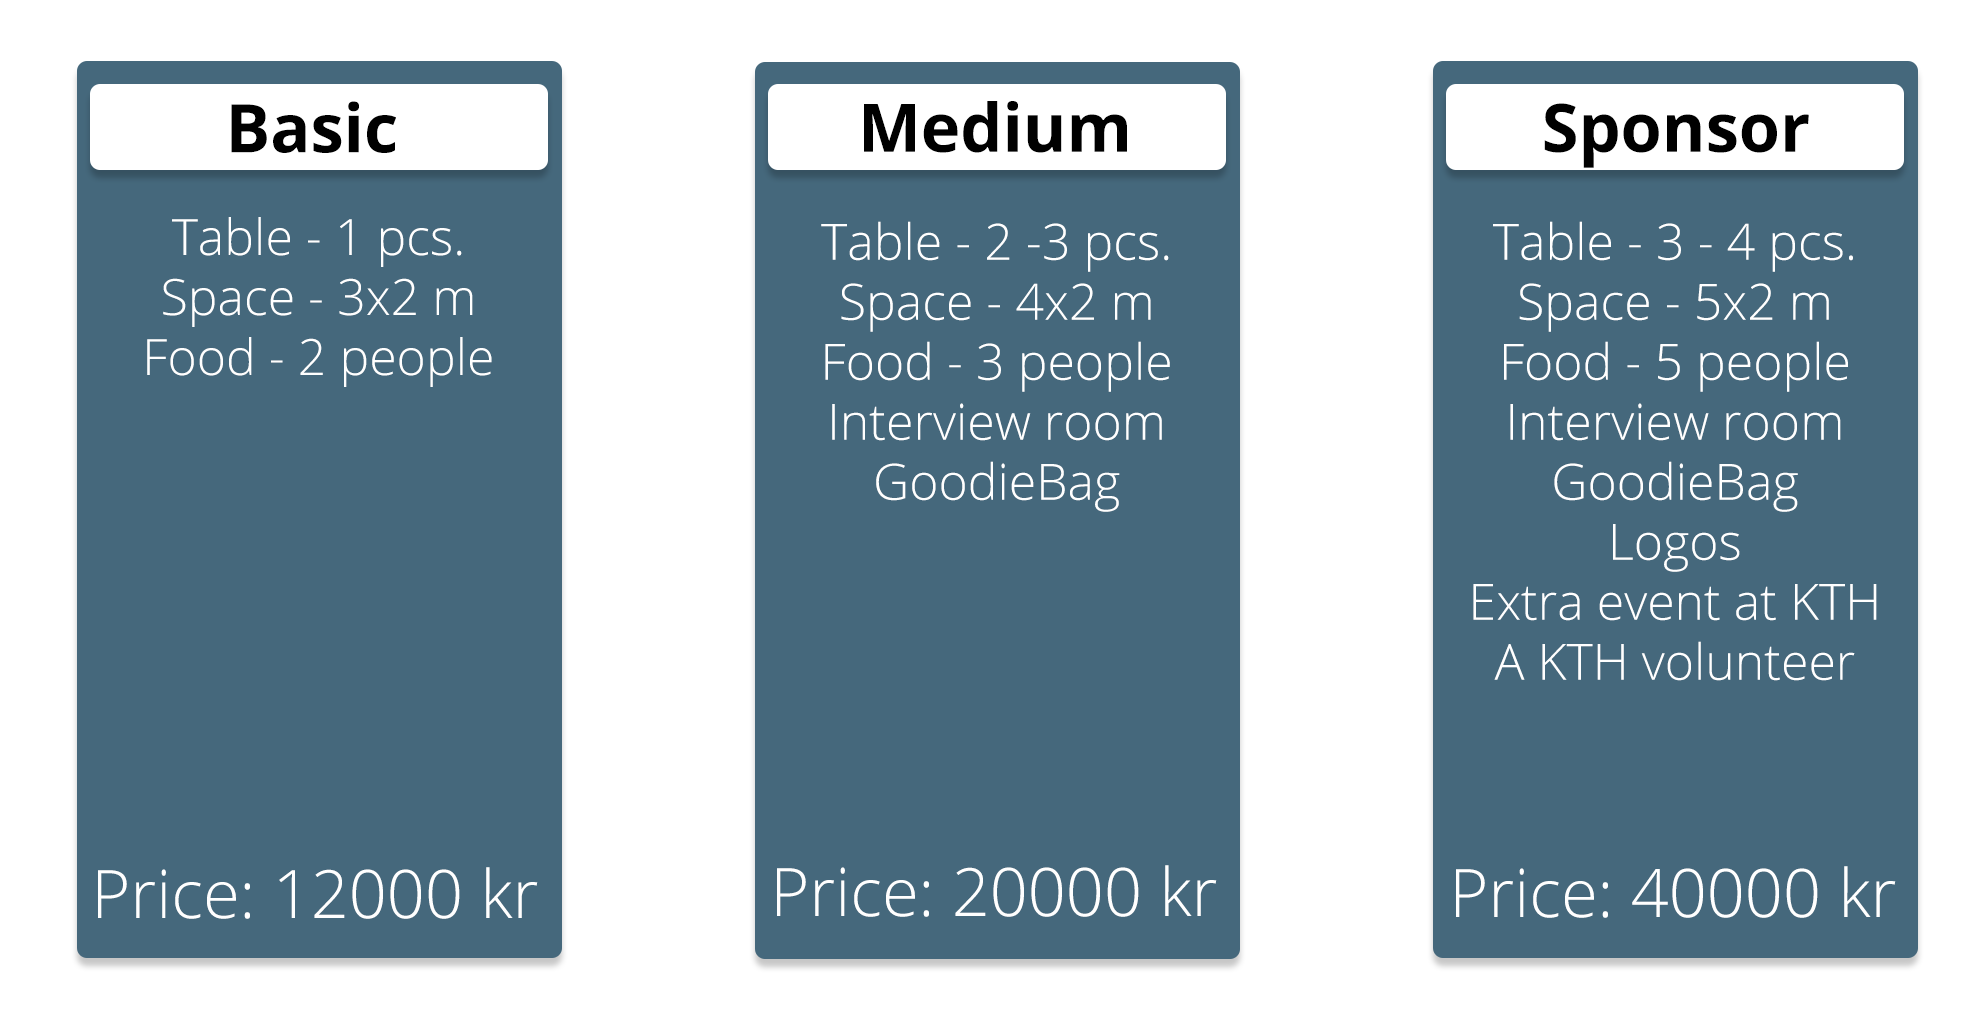
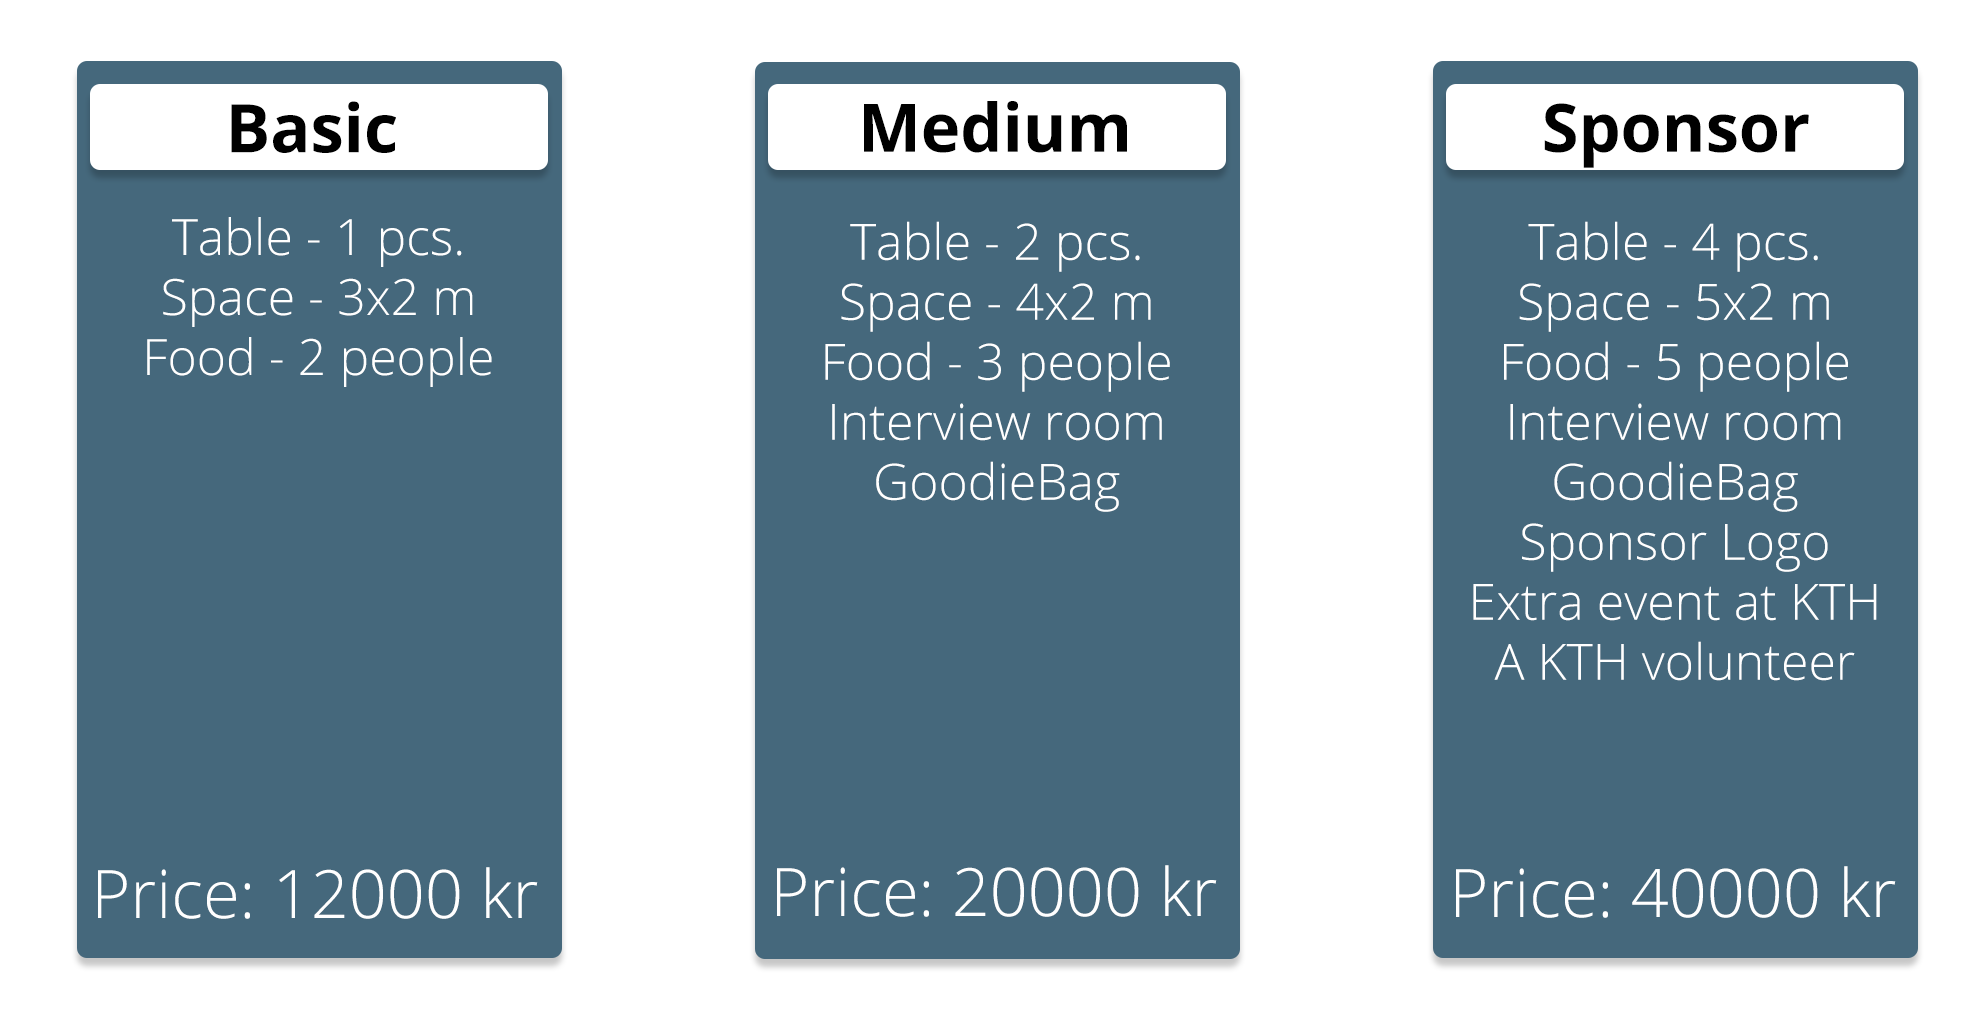
Split the bullets so it looks better in mobile

Changed region(s): [[0.4313, 0.2127, 0.5854, 0.2735], [0.7702, 0.2127, 0.9242, 0.2735], [0.7702, 0.5167, 0.9242, 0.5471]]

diff --git a/foretag.html b/foretag.html
@@ -70,20 +70,28 @@
     </div>
     <div id="companys" class="cont">
         <h1>Packet!</h1>
-        <img src="resources/img/kamprice_v2.png" alt="">
-
+        <div class="col-md-4 col-xs-12">
+            <img src="resources/img/kamprice_basic.png" alt="">
+        </div>
+        <div class="col-md-4 col-xs-12">
+            <img src="resources/img/kamprice_medium.png" alt="">
+        </div>
+        <div class="col-md-4 col-xs-12">
+            <img src="resources/img/kamprice_sponsor.png" alt="">
+        </div>
+        <p style="color: white;">.</p>
     </div>
-    <div id="contact" class="cont bg-3">
+    <div id="contact " class="cont bg-3 ">
         <h1>Kontakt</h1>
         <p>Lorem ipsum dolor sit amet consectetur adipisicing elit. Ratione totam in facilis perferendis accusamus similique ea sit fuga, reiciendis distinctio consequatur saepe adipisci! Eos debitis possimus dignissimos rem, facilis sequi.</p>
-        <p><a href="mailto:#">mail@mail.se</a></p>
+        <p><a href="mailto:# ">mail@mail.se</a></p>
     </div>
 
-    <footer class="bg-4">
-        <div class="col-sm-3 col-xs-6"><img src="resources/img/kamlogovit.png" /></div>
-        <div class="col-sm-3 col-xs-6"><img src="resources/img/thslogo.png" alt=""></div>
-        <div class="col-sm-3 col-xs-6"><img src="resources/img/Logo IN Monokrom Vit.png" alt=""></div>
-        <div class="col-sm-3 col-xs-6">
+    <footer class="bg-4 ">
+        <div class="col-sm-3 col-xs-6 "><img src="resources/img/kamlogovit.png " /></div>
+        <div class="col-sm-3 col-xs-6 "><img src="resources/img/thslogo.png " alt=" "></div>
+        <div class="col-sm-3 col-xs-6 "><img src="resources/img/Logo IN Monokrom Vit.png " alt=" "></div>
+        <div class="col-sm-3 col-xs-6 ">
             <h1>Kontaktinfo</h1>
             <p>Sektionen för Informations- och Nanoteknik <br> Electrum 210 <br> 164 40 Kista </p>
         </div>

diff --git a/english/company.html b/english/company.html
@@ -65,7 +65,16 @@
     </div>
     <div id="companys" class="cont">
         <h1>Packets!</h1>
-        <img src="../resources/img/kamprice_v2.png" alt="">
+        <div class="col-md-4 col-xs-12">
+            <img src="../resources/img/kamprice_basic.png" alt="">
+        </div>
+        <div class="col-md-4 col-xs-12">
+            <img src="../resources/img/kamprice_medium.png" alt="">
+        </div>
+        <div class="col-md-4 col-xs-12">
+            <img src="../resources/img/kamprice_sponsor.png" alt="">
+        </div>
+        <p style="color: white;">.</p>
 
     </div>
     <div id="contact" class="cont bg-3">

diff --git a/resources/css/style.css b/resources/css/style.css
@@ -24,6 +24,7 @@ header {
     margin: 0;
     padding-top: 10px;
     padding-bottom: 0;
+    height: fit-content;
 }
 
 @media screen and (min-width: 768px) {
